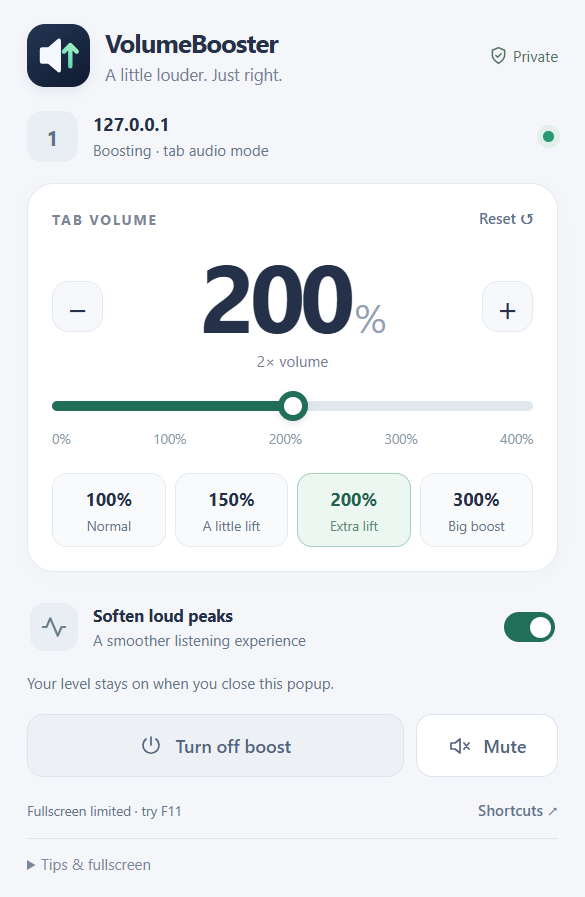
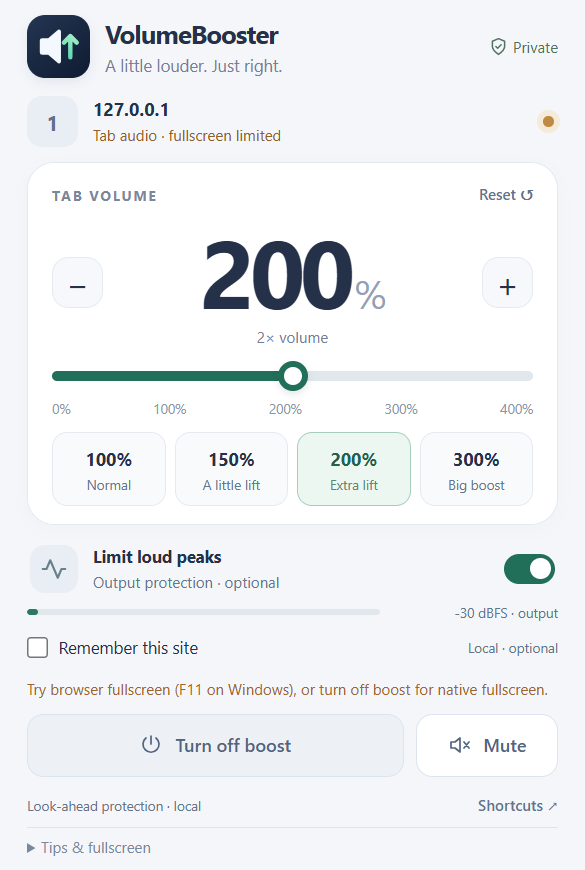
Prepare verified 0.4.0 browser and store release kit

diff --git a/extension/popup.css b/extension/popup.css
@@ -9,7 +9,7 @@
 }
 * { box-sizing: border-box; }
 body { margin: 0; width: 390px; }
-main { padding: 16px 18px; }
+main { padding: 10px 18px; }
 button, input, summary { -webkit-tap-highlight-color: transparent; }
 button { color: inherit; font: inherit; cursor: pointer; }
 button:disabled { opacity: .45; cursor: default; }
@@ -19,13 +19,13 @@ button:focus-visible, input:focus-visible, summary:focus-visible {
   outline-offset: 3px;
 }
 svg { width: 20px; height: 20px; fill: none; stroke: currentColor; stroke-width: 1.7; stroke-linecap: round; stroke-linejoin: round; flex-shrink: 0; }
-.header { display: flex; align-items: center; gap: 10px; margin-bottom: 16px; }
+.header { display: flex; align-items: center; gap: 10px; margin-bottom: 12px; }
 .logo { flex-shrink: 0; border-radius: 12px; box-shadow: 0 3px 8px #15233b12; }
 .brand { font-size: 17px; font-weight: 750; letter-spacing: -.55px; line-height: 1.3; }
 .brand > span { display: block; margin-top: 3px; font-size: 11px; font-weight: 400; letter-spacing: 0; color: #738095; }
 .privacy { display: flex; align-items: center; gap: 3px; margin-left: auto; font-size: 10px; color: #527260; }
 .privacy svg { width: 14px; height: 14px; }
-.tab { display: flex; align-items: center; gap: 10px; margin-bottom: 14px; }
+.tab { display: flex; align-items: center; gap: 10px; margin-bottom: 10px; }
 .site-icon { display: grid; place-items: center; width: 34px; height: 34px; flex-shrink: 0; border-radius: 10px; background: #e9edf4; color: #60718a; font-size: 14px; font-weight: 700; text-transform: uppercase; }
 .site-info { flex: 1; min-width: 0; }
 #site { display: block; overflow: hidden; text-overflow: ellipsis; white-space: nowrap; font-size: 12px; font-weight: 650; }
@@ -38,11 +38,11 @@ svg { width: 20px; height: 20px; fill: none; stroke: currentColor; stroke-width:
 .hint-wrap { display: flex; align-items: flex-start; gap: 8px; }
 .hint-wrap .hint { flex: 1; }
 .retry-audio { flex-shrink: 0; margin-top: 3px; }
-.volume-panel { padding: 14px 16px 16px; border-radius: 18px; background: #fff; border: 1px solid #e4e9f1; box-shadow: 0 3px 12px #1e304505; }
+.volume-panel { padding: 12px 16px; border-radius: 18px; background: #fff; border: 1px solid #e4e9f1; box-shadow: 0 3px 12px #1e304505; }
 .panel-heading { display: flex; justify-content: space-between; align-items: center; }
 .panel-heading label { font-size: 9px; font-weight: 650; letter-spacing: 1.4px; color: #7a8799; }
 .text-button { padding: 2px 0; border: 0; background: transparent; font-size: 10px; font-weight: 600; color: #61738d; }
-.reading { display: flex; justify-content: space-between; align-items: center; margin: 6px 0 12px; }
+.reading { display: flex; justify-content: space-between; align-items: center; margin: 6px 0 8px; }
 .readout { display: flex; flex-direction: column; align-items: center; }
 output { font-size: 64px; line-height: 1.1; font-weight: 650; letter-spacing: -3.5px; font-variant-numeric: tabular-nums; }
 output span { margin-left: 3px; font-size: 26px; font-weight: 450; letter-spacing: -1px; color: #92a1b4; }
@@ -51,13 +51,13 @@ output span { margin-left: 3px; font-size: 26px; font-weight: 450; letter-spacin
 input[type=range] { appearance: none; width: 100%; height: 7px; margin: 7px 0 12px; background: linear-gradient(to right, var(--accent) 25%, var(--track) 25%); border-radius: 8px; cursor: pointer; }
 input[type=range]::-webkit-slider-thumb { appearance: none; width: 20px; height: 20px; border: 4px solid var(--accent); border-radius: 50%; background: #fff; box-shadow: 0 2px 5px #1e304522; }
 .scale { display: flex; justify-content: space-between; font-size: 9px; color: #8b98aa; }
-.presets { display: grid; grid-template-columns: repeat(4, 1fr); gap: 6px; margin-top: 17px; }
+.presets { display: grid; grid-template-columns: repeat(4, 1fr); gap: 6px; margin-top: 10px; }
 .presets button { border: 1px solid #e5eaf1; background: #f8fafc; border-radius: 10px; padding: 9px 1px 8px; }
 .presets strong { display: block; font-size: 12px; font-weight: 650; }
 .presets span { display: block; margin-top: 3px; font-size: 9px; color: #66768c; }
 .presets button.selected { border-color: #a4cfbd; background: #edf7f1; color: #21624f; }
 .presets button.selected span { color: #598a75; }
-.protection { display: flex; align-items: center; gap: 10px; margin-top: 10px; padding: 11px 2px; }
+.protection { display: flex; align-items: center; gap: 10px; margin-top: 6px; padding: 7px 2px; }
 .protection-icon { display: grid; place-items: center; width: 32px; height: 32px; border-radius: 10px; color: #69818c; background: #e8eef3; }
 .protection strong { display: block; font-size: 11px; font-weight: 650; }
 .protection small { display: block; margin-top: 3px; font-size: 10px; color: #66768c; }
@@ -68,7 +68,7 @@ input[type=range]::-webkit-slider-thumb { appearance: none; width: 20px; height:
 .switch input:focus-visible + span { outline: 3px solid #477ac7; outline-offset: 3px; }
 .switch > span:first-of-type::after { content: ''; display: block; position: relative; top: 3px; left: 3px; width: 14px; height: 14px; border-radius: 50%; background: #fff; transition: transform .15s; }
 .switch input:checked + span::after { transform: translateX(14px); }
-.hint { min-height: 15px; margin: 3px 0 13px; font-size: 10px; line-height: 1.5; color: #65758a; }
+.hint { min-height: 15px; margin: 3px 0 9px; font-size: 10px; line-height: 1.5; color: #65758a; }
 .remember-row { display: flex; gap: 7px; align-items: center; font-size: 11px; margin: 0 0 10px; cursor: pointer; }
 .remember-row input { width: 14px; height: 14px; margin: 0; accent-color: var(--accent); }
 .remember-row small { margin-left: auto; font-size: 9px; color: #65758a; }
@@ -86,8 +86,8 @@ input[type=range]::-webkit-slider-thumb { appearance: none; width: 20px; height:
 .actions svg { width: 16px; height: 16px; }
 .mute { min-width: 95px; border: 1px solid #dce4ef; background: #fff; color: #51647e; }
 .mute[aria-pressed=true] { background: #fff0ec; color: #a25740; border-color: #e9c5b8; }
-footer { display: flex; justify-content: space-between; align-items: center; margin-top: 13px; font-size: 9px; color: #65758a; }
-details { border-top: 1px solid #dfe5ed; margin-top: 10px; padding-top: 10px; }
+footer { display: flex; justify-content: space-between; align-items: center; margin-top: 10px; font-size: 9px; color: #65758a; }
+details { border-top: 1px solid #dfe5ed; margin-top: 6px; padding-top: 6px; }
 summary { color: #7a889b; font-size: 10px; cursor: pointer; }
 .help-content { font-size: 11px; line-height: 1.6; color: #6b7c92; }
 .help-content strong { color: #4a5f7b; font-weight: 600; }

diff --git a/README.md b/README.md
@@ -2,31 +2,33 @@
 <h1 align="center">VolumeBooster</h1>
 <p align="center">A little louder. Just right.</p>
 <p align="center"><a href="https://github.com/saeidshirazi/VolumeBooster/actions/workflows/checks.yml"><img src="https://github.com/saeidshirazi/VolumeBooster/actions/workflows/checks.yml/badge.svg" alt="Checks"></a> · Chrome · Edge · Brave · Firefox · MIT</p>
-<p align="center"><img src="docs/store/assets/screenshot-1280x800.png" alt="VolumeBooster's actual interface with a 200% level, presets, plus and minus buttons, mute, and peak softening" width="900"></p>
+<p align="center"><img src="docs/store/assets/screenshot-1280x800.png" alt="VolumeBooster's actual interface with a 200% level, presets, plus and minus buttons, mute, and peak protection" width="900"></p>
 
 Smooth volume control for quieter videos, music, and calls. Choose a preset or move the slider to start boosting the tab you're on. Each tab has its own level. **No accounts, recordings, uploads, analytics, ads, or runtime dependencies.**
 
 - Volume from **0–400%**, with one-click presets, +/−, and Reset.
 - Mute without losing your chosen volume.
-- Optional peak compression to soften sudden sounds.
+- Optional 5 ms look-ahead sample limiter, with a clearly identified peak-ceiling fallback.
+- Live output meter, recovery guidance and Retry audio.
+- Opt-in remembered site levels, stored locally and removable anytime.
 - Native fullscreen on compatible media players.
 - Keyboard shortcuts and the browser's own shortcut settings.
 - Four native browser packages, open source under the [MIT license](LICENSE).
 
 ## Download and install
 
-[All release assets](https://github.com/saeidshirazi/VolumeBooster/releases/tag/v0.3.0) include the browser packages, source, store assets, and SHA-256 checksums.
+[All release assets](https://github.com/saeidshirazi/VolumeBooster/releases/tag/v0.4.0) include the browser packages, source, store assets, and SHA-256 checksums.
 
 | Browser | Download | Install |
 | --- | --- | --- |
-| Chrome 116+ | [Chrome ZIP](https://github.com/saeidshirazi/VolumeBooster/releases/download/v0.3.0/volumebooster-0.3.0-chrome.zip) | Extract → `chrome://extensions` → Developer mode → Load unpacked |
-| Microsoft Edge (Chromium 116+) | [Edge ZIP](https://github.com/saeidshirazi/VolumeBooster/releases/download/v0.3.0/volumebooster-0.3.0-edge.zip) | Extract → `edge://extensions` → Developer mode → Load unpacked |
-| Brave (Chromium 116+) | [Brave ZIP](https://github.com/saeidshirazi/VolumeBooster/releases/download/v0.3.0/volumebooster-0.3.0-brave.zip) | Extract → `brave://extensions` → Developer mode → Load unpacked |
-| Firefox 142+ | [Unsigned Firefox XPI](https://github.com/saeidshirazi/VolumeBooster/releases/download/v0.3.0/volumebooster-0.3.0-firefox-unsigned.xpi) | For testing: `about:debugging#/runtime/this-firefox` → Load Temporary Add-on |
+| Chrome 116+ | [Chrome ZIP](https://github.com/saeidshirazi/VolumeBooster/releases/download/v0.4.0/volumebooster-0.4.0-chrome.zip) | Extract → `chrome://extensions` → Developer mode → Load unpacked |
+| Microsoft Edge (Chromium 116+) | [Edge ZIP](https://github.com/saeidshirazi/VolumeBooster/releases/download/v0.4.0/volumebooster-0.4.0-edge.zip) | Extract → `edge://extensions` → Developer mode → Load unpacked |
+| Brave (Chromium 116+) | [Brave ZIP](https://github.com/saeidshirazi/VolumeBooster/releases/download/v0.4.0/volumebooster-0.4.0-brave.zip) | Extract → `brave://extensions` → Developer mode → Load unpacked |
+| Firefox 142+ | [Unsigned Firefox XPI](https://github.com/saeidshirazi/VolumeBooster/releases/download/v0.4.0/volumebooster-0.4.0-firefox-unsigned.xpi) | For testing: `about:debugging#/runtime/this-firefox` → Load Temporary Add-on |
 
 Select the extracted folder containing `manifest.json` for Chromium installations. Firefox also accepts the extracted `dist-firefox/manifest.json` during development. **Permanent Firefox installation requires Mozilla signing**; a temporary add-on disappears when Firefox closes. Do not disable signature checks.
 
-Pin VolumeBooster, play audio, open its popup, and choose 150% or 200%. Increase gradually. Closing the popup keeps processing active; **Turn off boost** restores original playback. Re-enable direct mode after a reload. [Full browser installation guide](CROSS-BROWSER.md).
+Pin VolumeBooster, play audio, open its popup, and choose 150% or 200%. Increase gradually. Closing the popup keeps processing active; **Turn off boost** restores original playback. Optionally enable Remember this site to restore compatible players after reload. [Full browser installation guide](CROSS-BROWSER.md).
 
 ## Fullscreen and compatibility
 
@@ -34,9 +36,9 @@ Compatible HTML audio/video players use **direct processing**, preserving native
 
 This cannot boost every site or bypass DRM, cross-origin policies, muted devices, browser-internal pages, or another audio extension's exclusive attachment. Cross-origin embeds and shadow-DOM-only players may need Chromium capture. Safari and mobile are not part of this four-desktop-browser release. See the [browser feature matrix](CROSS-BROWSER.md).
 
-Both engines smooth gain changes with a 25 ms time constant. Peak softening changes dynamics and can slightly affect levels at 100%; turn it off for an uncompressed unity-gain path. It is not a hard limiter and cannot guarantee distortion-free sound. Lower the level if audio crackles.
+Both engines smooth gain changes with a 25 ms time constant. Worklets use a shared, stereo-linked 5 ms look-ahead sample limiter; unsupported environments use a soft/sample ceiling that can alter dynamics and stereo balance. The popup identifies the fallback. This is not an intersample or physical-loudness guarantee. [Audio processing details](docs/AUDIO-PROCESSING.md).
 
-In direct mode, Stop restores a unity-gain path with compression bypassed. The browser's one-time media attachment remains alive until the page unloads so the site stays audible. Capture-mode Stop releases its stream and AudioContext completely.
+In direct mode, Stop restores a unity-gain path with peak protection bypassed. The browser's one-time media attachment remains alive until the page unloads so the site stays audible. Capture-mode Stop releases its stream and AudioContext completely.
 
 ## Keyboard controls
 
@@ -50,7 +52,7 @@ Use **Shortcuts** in the popup to change conflicts in your browser's native sett
 
 ## Privacy and permissions
 
-All processing is local. No microphone/camera capture, saved audio, external service, broad host permission, or browser history collection. Chromium builds request `activeTab`, `scripting`, `tabCapture`, and `offscreen`. Firefox requests only `activeTab` and `scripting`, with Mozilla's no-data-collection declaration. [Privacy policy](PRIVACY.md).
+All processing is local. No microphone/camera capture, saved audio, external service or history collection. Both engines use `activeTab`, `scripting` and `storage`; Chromium additionally uses `tabCapture` and `offscreen`. Remember this site requests optional access only to the selected host and saves its exact origin, volume and protection preference. Automatic restoration never starts capture. Firefox declares no data collection. [Privacy policy](PRIVACY.md).
 
 ## Build and test
 
@@ -68,7 +70,7 @@ npm run test:firefox
 npm run lint:firefox
 ```
 
-Edge and Brave tests use their installed native browsers; Firefox uses Selenium with a temporary native add-on. Fresh profiles and generated audio keep personal sessions untouched. Test-only Web Audio probes measure real signal gain and mute behavior. `--headless` runs Chromium suites in CI mode with audio unmuted; layout checks verify a 390 px body and controls within desktop popup bounds. `--live-sites` optionally adds public YouTube playback checks; live fullscreen is focus/network-sensitive.
+Edge and Brave tests use their installed native browsers; Firefox uses Selenium with a temporary native add-on. Fresh profiles and generated audio keep personal sessions untouched. Test-only Web Audio probes measure real signal gain and mute behavior. `--headless` runs Chromium suites in CI mode with audio unmuted; layout checks verify a 390 px body and controls within desktop popup bounds. `--site-memory --limiter --compatibility --endurance` verifies saved levels, real offline DSP, Retry and a two-minute playback regression. Memory fixtures pre-grant localhost in a test-only manifest; baseline tests use the unmodified build. `--live-sites` optionally adds public YouTube and Twitch playback checks; live fullscreen is focus/network-sensitive.
 
 ```sh
 npm run package
@@ -78,11 +80,11 @@ npm run package:public
 npm run verify:release
 ```
 
-Build folders: `dist`, `dist-edge`, `dist-brave`, `dist-firefox`. Archives: `release/local/v0.3.0` or `release/public/v0.3.0`. Verified public archives are sealed against replacement. The runtime is plain JavaScript; ZIP/XPI files have `manifest.json` at the root. [Validation results](TESTING.md) · [Contributing](CONTRIBUTING.md).
+Build folders: `dist`, `dist-edge`, `dist-brave`, `dist-firefox`. Archives: `release/local/v0.4.0` or `release/public/v0.4.0`. Verified public archives are sealed against replacement. The runtime is plain JavaScript; ZIP/XPI files have `manifest.json` at the root. [Validation results](TESTING.md) · [Contributing](CONTRIBUTING.md).
 
 ## Store submission and community
 
-[Store submission guide](docs/STORE-SUBMISSION.md) includes listing copy, permission justifications, privacy declarations, reviewer instructions, icons, screenshots, and promotional images. [Download store assets](https://github.com/saeidshirazi/VolumeBooster/releases/download/v0.3.0/volumebooster-0.3.0-store-assets.zip).
+[Store submission guide](docs/STORE-SUBMISSION.md) includes listing copy, permission justifications, privacy declarations, reviewer instructions, icons, screenshots, and promotional images. [Download store assets](https://github.com/saeidshirazi/VolumeBooster/releases/download/v0.4.0/volumebooster-0.4.0-store-assets.zip).
 
 These packages are prepared for submission, **not signed or store-approved**. Publisher registration, final portal declarations, Mozilla signing, and store review are separate. Brave uses Chrome Web Store distribution; Edge and Firefox have their own stores.
 

diff --git a/docs/STORE-SUBMISSION.md b/docs/STORE-SUBMISSION.md
@@ -1,4 +1,4 @@
-# Store submission package · 0.3.0
+# Store submission package · 0.4.0
 
 This is a submission-prepared open-source release. It has not been submitted to or approved by a browser store. Signing, publisher registration/verification, final portal declarations, and store review remain the publisher's responsibility. Never describe an unsigned XPI as permanently installable.
 
@@ -6,10 +6,10 @@ This is a submission-prepared open-source release. It has not been submitted to 
 
 | Browser | Upload | Distribution |
 | --- | --- | --- |
-| Chrome | `volumebooster-0.3.0-chrome.zip` | Chrome Web Store |
-| Edge | `volumebooster-0.3.0-edge.zip` | Microsoft Edge Add-ons |
-| Brave | `volumebooster-0.3.0-brave.zip` for local installation; Chrome ZIP for store submission | Brave installs extensions from the Chrome Web Store; there is no separate Brave store submission here |
-| Firefox | `volumebooster-0.3.0-firefox-unsigned.xpi` | Mozilla Add-ons submission/signing; temporary installation until signed |
+| Chrome | `volumebooster-0.4.0-chrome.zip` | Chrome Web Store |
+| Edge | `volumebooster-0.4.0-edge.zip` | Microsoft Edge Add-ons |
+| Brave | `volumebooster-0.4.0-brave.zip` for local installation; Chrome ZIP for store submission | Brave installs extensions from the Chrome Web Store; there is no separate Brave store submission here |
+| Firefox | `volumebooster-0.4.0-firefox-unsigned.xpi` | Mozilla Add-ons submission/signing; temporary installation until signed |
 
 The source ZIP contains build scripts and the dependency lockfile. Runtime code is unminified JavaScript, with no runtime third-party library, downloaded code, or `eval`. PNG icons are checked in, so ordinary builds do not need a browser. Use `npm ci`, `npm run package:public`, and `npm run verify:release` to reproduce a release with a new version. Existing checksummed public archives are immutable.
 
@@ -28,13 +28,15 @@ Quiet video or music? Bring it to a comfortable level with VolumeBooster.
 - Pick a preset or move the slider to start boosting the current tab.
 - Adjust from 0% to 400%, with +/− controls and a one-click Reset.
 - Mute a tab without losing its chosen level.
-- Soften sudden peaks with optional audio compression.
+- Limit output samples with optional look-ahead peak protection and see the live output meter.
+- Optionally remember a site level locally, with access requested only for that host.
+- Recover paused output using clear status and Retry audio.
 - Keep each tab's volume independent.
 - Use keyboard shortcuts after enabling the tab.
 
 Everything runs on your device. No accounts, recordings, uploads, ads, or tracking. VolumeBooster is free and open source under the MIT license.
 
-Compatible media players retain native fullscreen. Chromium browsers can use tab audio capture as a fallback, where the browser may restrict fullscreen; the popup identifies this mode. Firefox processes compatible players directly and cannot boost every protected or non-CORS player. Re-enable direct mode after reloading a page. This extension cannot unmute your device or a muted website player. High boost may distort audio; increase gradually.
+Compatible media players retain native fullscreen. Chromium browsers can use tab audio capture as a fallback, where the browser may restrict fullscreen; the popup identifies this mode. Firefox processes compatible players directly and cannot boost every protected or non-CORS player. Opt-in site memory restores compatible players after reload; capture still requires a click. This extension cannot unmute your device or a muted website player. High boost may distort audio; increase gradually.
 
 ## Public links
 
@@ -52,7 +54,10 @@ Compatible media players retain native fullscreen. Chromium browsers can use tab
 **Permission justifications:**
 
 - `activeTab`: access the selected page after a user invokes the extension, read its hostname, and attach its audio processor.
-- `scripting`: run the bundled Web Audio processor in that selected page. No remote scripts or arbitrary downloaded code.
+- `scripting`: run bundled Web Audio helpers after activation, and register restoration helpers only for sites the user explicitly remembers. No remote code.
+- `storage`: save only an opted-in exact site origin, volume and protection preference locally. No audio, listening history, mute history or private-window preferences.
+- Optional HTTP/HTTPS host permissions: request access to the selected remembered host so compatible media can restore on future visits. Host grants can cover ports; runtime restoration validates the exact origin. Forget removes the saved record and unused grant. Declaring optional patterns does not request all-site access on installation.
+- Web-accessible resources: only the bundled limiter worklet and its core can load into the selected page’s Web Audio context.
 - `tabCapture` (Chromium only): process the selected tab's mixed audio when direct media processing is unavailable. Only after explicit activation.
 - `offscreen` (Chromium only): retain local audio playback after closing the popup, through the browser's offscreen document.
 
@@ -65,7 +70,9 @@ Compatible media players retain native fullscreen. Chromium browsers can use tab
 3. Check +/−, Reset, mute/unmute, and Stop. Stop should preserve original website playback.
 4. Enter fullscreen on a compatible player. The audio processor remains attached. Use the popup's mode/status to distinguish native processing from Chromium capture fallback.
 5. In Chromium, pages using Web Audio without a compatible media element exercise tab capture. In Firefox, an incompatible protected/non-CORS player displays a clear unsupported-player error rather than invoking nonexistent capture APIs.
-6. Open Shortcuts to customize keys in the browser's native settings.
+6. Enable Remember this site, accept that host permission, change the level, then reload and play. A compatible player restores the saved level. Stop prevents immediate reactivation; forgetting removes saved settings and registration.
+7. Verify the live meter and Limit loud peaks switch. If output becomes suspended, Retry audio resumes it.
+8. Open Shortcuts to customize keys in the browser's native settings.
 
 No sign-in, payment, test account, server, or API key is needed. The repository has a reproducible local media fixture and real browser integration suites. See TESTING.md for the exact environments and limitations.
 

diff --git a/CROSS-BROWSER.md b/CROSS-BROWSER.md
@@ -1,31 +1,31 @@
 # Chrome, Edge, Brave, and Firefox
 
-VolumeBooster 0.3.0 has a separate native build for each of these desktop browsers. This is not a renamed Chrome package for Firefox: Firefox has its own background implementation, permissions, stable add-on identity, and shortcut-settings route.
+VolumeBooster 0.4.0 has a separate native build for each of these desktop browsers. This is not a renamed Chrome package for Firefox: Firefox has its own background implementation, permissions, stable add-on identity, and shortcut-settings route.
 
 ## Install
 
 | Browser | Output / download | Installation |
 | --- | --- | --- |
-| Chrome 116+ | `dist` / `volumebooster-0.3.0-chrome.zip` | Extract to a stable folder, open `chrome://extensions`, enable Developer mode, Load unpacked |
-| Edge (Chromium 116+) | `dist-edge` / `volumebooster-0.3.0-edge.zip` | Extract, open `edge://extensions`, enable Developer mode, Load unpacked |
-| Brave (Chromium 116+) | `dist-brave` / `volumebooster-0.3.0-brave.zip` | Extract, open `brave://extensions`, enable Developer mode, Load unpacked |
-| Firefox 142+ | `dist-firefox` / `volumebooster-0.3.0-firefox-unsigned.xpi` | For testing: `about:debugging#/runtime/this-firefox` → Load Temporary Add-on → choose the XPI or manifest |
+| Chrome 116+ | `dist` / `volumebooster-0.4.0-chrome.zip` | Extract to a stable folder, open `chrome://extensions`, enable Developer mode, Load unpacked |
+| Edge (Chromium 116+) | `dist-edge` / `volumebooster-0.4.0-edge.zip` | Extract, open `edge://extensions`, enable Developer mode, Load unpacked |
+| Brave (Chromium 116+) | `dist-brave` / `volumebooster-0.4.0-brave.zip` | Extract, open `brave://extensions`, enable Developer mode, Load unpacked |
+| Firefox 142+ | `dist-firefox` / `volumebooster-0.4.0-firefox-unsigned.xpi` | For testing: `about:debugging#/runtime/this-firefox` → Load Temporary Add-on → choose the XPI or manifest |
 
 **Permanent Firefox installation requires Mozilla signing.** The GitHub XPI is unsigned and a temporary add-on disappears when Firefox closes. Submit the XPI to AMO for listing/signing or obtain an unlisted signed version. Do not disable Firefox signature checks. [Mozilla signing documentation](https://extensionworkshop.com/documentation/publish/signing-and-distribution-overview/).
 
-Pin the extension, play audio, and choose a preset. Closing the popup keeps the level active. Re-enable direct mode after a full page reload. Keep the extracted directory in place and use Reload to update an unpacked installation.
+Pin the extension, play audio, and choose a preset. Closing the popup keeps the level active. Optionally remember this site to restore compatible players after reload. Keep the extracted directory in place and use Reload to update an unpacked installation.
 
 ## Features and limits
 
 | Feature | Chrome / Edge / Brave | Firefox |
 | --- | --- | --- |
 | 0–400% gain, presets, +/−, Reset, mute | Supported | Supported on compatible players |
-| Peak softening and smooth gain changes | Supported | Supported |
+| Sample limiting, output meter and smooth gain changes | Supported | Supported |
 | Direct HTML audio/video processing | Supported | Supported |
 | Native fullscreen with direct processing | Supported | Supported |
 | Mixed-tab capture fallback | `tabCapture` + offscreen audio | Unavailable; a clear unsupported-player error is shown |
 | Native fullscreen during tab capture | Browser-limited; F11 may help | Not applicable |
-| Direct-mode reload | Re-enable after loading a new document | Re-enable; Firefox also revokes `activeTab` on reload |
+| Direct-mode reload | Opt-in site memory restores compatible players | Opt-in host permission restores compatible players; otherwise re-enable |
 | Keyboard shortcut settings | Native browser extension settings | Native Firefox add-on shortcut manager |
 
 Protected/DRM, non-CORS cross-origin media, browser/internal/store pages, nested cross-origin frames, and shadow-DOM-only players can limit compatibility. No extension can guarantee all media on all websites. Firefox does not have Chromium's tab-audio fallback. Safari, mobile browsers, and other engines are not implemented or certified by this release; a Safari extension requires a separate Apple-platform distribution/test path.

diff --git a/TESTING.md b/TESTING.md
@@ -1,13 +1,15 @@
-# Validation · November 11, 2026 · 0.3.0
+# Validation · November 11, 2026 · 0.4.0
 
 This release contains native Chrome, Edge, Brave, and Firefox builds. Local browser results below come from isolated profiles on Windows. CI tests the Chromium-family browsers on Windows, Firefox on Linux with an explicit PulseAudio virtual output, and package validation on Linux. Minimum declared versions were not separately tested.
 
 ## Automated checks
 
-- **20 unit tests**: audio bounds, graph smoothing/routing, safe media preflight, mute state, failure and stream cleanup, bounded audio-start timeout behavior, concurrent session serialization, independent tabs, Firefox/Chromium routing and permission guards, four-browser manifests, and reproducible archive text/timestamp handling.
+- **37 unit tests**: audio bounds, graph smoothing/routing, safe media preflight, mute state, failure and stream cleanup, bounded audio-start timeout behavior, concurrent session serialization, independent tabs, Firefox/Chromium routing and permission guards, four-browser manifests, and reproducible archive text/timestamp handling.
 - **Firefox `web-ext lint`: 0 errors, 0 warnings.** The Firefox package includes a native background and no Chromium offscreen/tab-capture implementation or permissions.
 - **Production dependency audit: 0 vulnerabilities.** The extension has no third-party runtime dependency; test/build tools are dev dependencies.
 - Release verification checks each manifest, required assets, privacy declaration, browser configuration, archive inventory, store image dimensions, source exclusions, and SHA-256 hashes.
+
+Extended suites add opt-in site memory/reload/Forget, real OfflineAudioContext worklet and fallback rendering, live output meters, forced suspension and Retry. Loud DSP fixtures are rendered offline, never sent to speakers. Output sample peaks remain approximately 0.98000002 with Float32 rounding. Site-memory integration uses a test-only manifest pre-granting localhost; the normal baseline runs use the unmodified production manifest. Native optional-permission prompt placement remains a manual check.
 
 ## Browser environments
 
@@ -30,7 +32,9 @@ Raw local reports and screenshots are under `test-results/<browser>/`. CI upload
 
 ## Live services and remaining scope
 
-Earlier Chrome 0.1.0 validation boosted public YouTube audio in native video fullscreen. A 0.2.0 live retest boosted audio but encountered fullscreen focus/permission denial even before boosting. The 0.3.0 four-browser regression uses deterministic local fixtures; it does not certify every current YouTube layout, Spotify account playback, or protected media service.
+Version 0.4.0 passed public YouTube amplification and native video fullscreen in Chrome, using direct mode without capture. A public Twitch stream passed measured amplification through capture. These optional live checks depend on network/player availability. A getLayoutMap policy diagnostic with no reported source URL occurred during Twitch browsing and is retained separately; deterministic fixtures had no uncaught errors. Spotify/Netflix pages were inspected but account playback remains unverified.
+
+Chrome, Edge and Brave each passed 60 seconds of measured capture plus 60 seconds of direct playback. Firefox passed 120 seconds of direct playback. Signals were sampled every six seconds and stayed running at the expected gain. This two-minute regression does not establish overnight stability.
 
 Firefox cannot use Chromium mixed-tab capture. DRM, non-CORS sources, complex embeds, shadow-DOM-only players, a source changing origin after attachment, or other exclusive audio processors can limit compatibility. Physical shortcut delivery, Bluetooth/output-device switching, long-session behavior, OS sleep/wake, and crash recovery need additional real-world testing. Safari, mobile, other operating systems, and the declared minimum browser versions have not been certified locally.
 

diff --git a/PRIVACY.md b/PRIVACY.md
@@ -7,7 +7,7 @@ VolumeBooster adjusts audio volume in browser tabs you explicitly enable. Proces
 ## What the extension accesses
 
 - The URL of the selected tab to show its hostname and check whether the page is supported.
-- Compatible audio/video elements in the selected page to route audio through a local Web Audio gain/compression graph.
+- Compatible audio/video elements in the selected page to route audio through a local Web Audio gain/limiter graph.
 - On Chrome, Edge, and Brave only, the selected tab's audio stream when direct player processing is unavailable. The stream is played locally, not recorded or uploaded. The browser displays a capture indicator.
 
 Current tab and mute state are held in memory. If you opt into **Remember this site**, the extension saves that site's origin (scheme, hostname and port), volume and peak-protection preference in local extension storage. It saves no page paths, query strings, credentials, listening history or audio. Mute is not persisted. Private-window preferences are not saved. Forgetting a site deletes its saved record and unregisters automatic processing; optional site permission is removed when no remaining preference uses that host permission.
@@ -22,7 +22,7 @@ Chromium builds additionally use `tabCapture` for fallback tab audio and `offscr
 
 ## Stopping processing
 
-Turn off boost in the popup or close the tab. Capture mode stops its stream and closes its AudioContext. Direct mode restores a unity-gain passthrough and bypasses compression; the browser's one-time media attachment remains until the page unloads. No audio is saved.
+Turn off boost in the popup or close the tab. Capture mode stops its stream and closes its AudioContext. Direct mode restores a unity-gain passthrough and bypasses peak protection; the browser's one-time media attachment remains until the page unloads. No audio is saved.
 
 ## External services
 

diff --git a/docs/RELEASE-v0.4.0.md b/docs/RELEASE-v0.4.0.md
@@ -1,0 +1,13 @@
+# VolumeBooster 0.4.0
+
+Native packages for Chrome, Edge, Brave and Firefox, with optional local remembered site levels, a shared look-ahead sample limiter, live output meter and actionable recovery controls.
+
+- Remember an exact site origin, level and protection setting after granting optional host access. Compatible players restore after reload; automatic capture is never started.
+- A stereo-linked 5 ms look-ahead sample limiter handles mixed sources. A clearly identified soft/sample-ceiling fallback is available when worklets cannot load.
+- The popup explains native fullscreen, capture restrictions, unsupported players and paused output. Retry resumes the existing session.
+
+Verified: 37 unit tests, four real browser suites, real offline worklet/fallback rendering, local fullscreen, mute, Stop, worker restart, reload restoration and a two-minute measured playback regression per browser. Public YouTube amplification/native fullscreen and Twitch capture amplification passed in Chrome. See TESTING.md and docs/IMPROVEMENT-VERIFICATION.md for scope and diagnostics.
+
+Spotify/Netflix account playback, physical Bluetooth switching, overnight sessions and minimum browser versions remain unverified. Firefox cannot process every protected/non-CORS player. Capture may limit native fullscreen. Safari/mobile are not included.
+
+Download your browser package and check SHA256SUMS.txt. Chromium ZIPs are unpacked development installs until a store listing is approved. The Firefox XPI is unsigned and for temporary testing; permanent installation requires Mozilla signing. Source, MIT license, privacy policy and store assets are included. No store submission, approval or signature is claimed by this release.

diff --git a/docs/IMPROVEMENT-VERIFICATION.md b/docs/IMPROVEMENT-VERIFICATION.md
@@ -41,3 +41,9 @@ Public YouTube playback passed in Chrome: direct mode used no capture, output am
 The available automated stage-4 checks are complete; the external validation items remain open. Proceeding to prepare the store/release kit with those limits stated.
 
 Additional stage-4 verification: the public Twitch ESLCS stream passed measured amplification in Chrome capture mode (approximately 1.47x at 150%). The final YouTube/Twitch rerun exited successfully. A getLayoutMap permission-policy diagnostic occurred while browsing Twitch with no resource URL reported; it is retained as a live-site diagnostic, not hidden or counted as an extension fixture failure. Deterministic fixtures remained free of uncaught errors. Live-site tests are optional and network/player dependent.
+
+## 5. Release and store preparation
+
+Updated the versioned browser/source/store kits, listing copy, privacy/permission declarations, reviewer instructions and current interface screenshots. A stricter native check caught footer/help scrolling at Windows display scaling; spacing was adjusted and the entire collapsed popup now fits the 600 CSS-pixel limit.
+
+Publisher access check: opening the Chrome developer dashboard through the connected browser returned **Not allowed**. No workaround, account creation, contract acceptance or submission was attempted. Store signing/submission remains blocked on publisher browser access and authentication. GitHub release preparation continues independently. Mozilla signing remains necessary for permanent Firefox installation.

diff --git a/CHANGELOG.md b/CHANGELOG.md
@@ -1,5 +1,14 @@
 # Changelog
 
+## 0.4.0 · November 11, 2026
+
+- Opt-in local per-site volume/protection with optional host permission, reload restoration, Stop suppression and Forget.
+- Shared stereo-linked look-ahead sample limiter, identified sample-ceiling fallback, and live output meter.
+- Compatibility guidance for native/capture/Firefox restrictions, paused output and Retry recovery.
+- Prevent automatic restoration from creating a second processor over active capture.
+- 37 unit tests, four-browser DSP/memory/recovery checks and two-minute measured playback regressions.
+- Public YouTube native-fullscreen amplification and Twitch capture amplification checked in Chrome; account/physical-device coverage remains explicit.
+
 ## 0.3.0 · November 11, 2026
 
 - Separate native Chrome, Edge, Brave, and Firefox builds.
